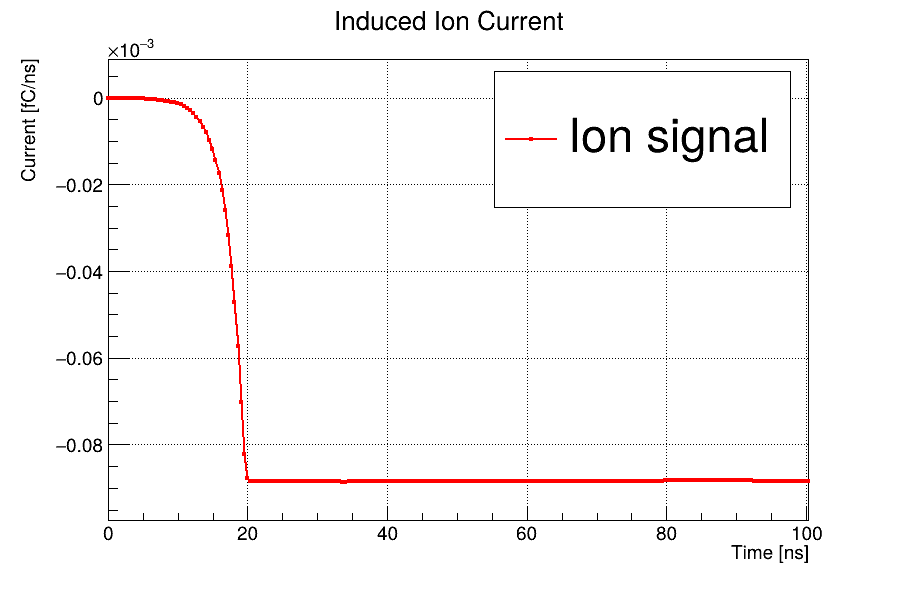
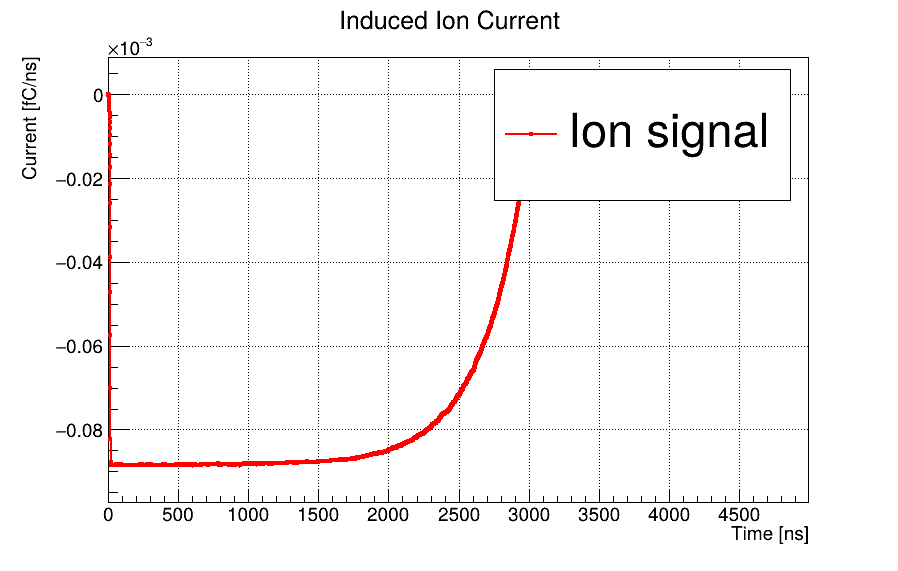
a

diff --git a/FromDrNizam/lab_build/IonPlot.py b/FromDrNizam/lab_build/IonPlot.py
@@ -52,7 +52,7 @@ g_electron.GetXaxis().SetRangeUser(time[0], 70.0)
 '''
 g_ion.SetTitle("Induced Ion Current;Time [ns];Current [fC/ns]")
 g_ion.Draw("APL")
-g_ion.GetXaxis().SetRangeUser(time[0], 100.0)
+g_ion.GetXaxis().SetRangeUser(time[0], 5000.0)
 #g_ion.Draw("PL SAME")
 #g_total.Draw("L SAME")
 
